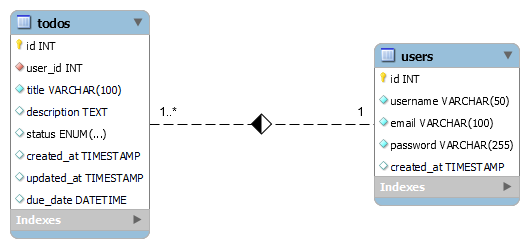
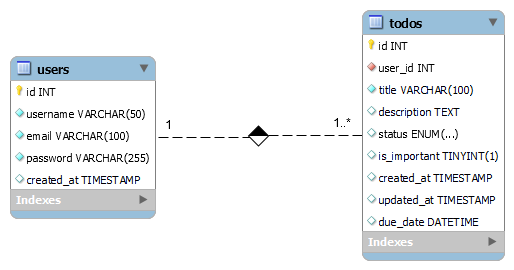
READDME:
DB Dokumentation

diff --git a/README.md b/README.md
@@ -128,6 +128,7 @@ CREATE TABLE IF NOT EXISTS todos (
     title VARCHAR(100) NOT NULL,
     description TEXT,
     status ENUM('offen', 'in Bearbeitung', 'abgeschlossen') DEFAULT 'offen',
+    is_important BOOLEAN DEFAULT 0, -- Neue Spalte für "wichtige" Aufgaben
     created_at TIMESTAMP DEFAULT CURRENT_TIMESTAMP,
     updated_at TIMESTAMP DEFAULT CURRENT_TIMESTAMP ON UPDATE CURRENT_TIMESTAMP,
     due_date DATETIME,
@@ -149,18 +150,21 @@ INSERT INTO users (username, email, password, created_at) VALUES
 
 ```sql
 -- Dummy-Daten für die Tabelle todos einfügen
-INSERT INTO todos (user_id, title, description, status, due_date, created_at, updated_at) VALUES
-(1, 'Einkaufen gehen', 'Milch, Brot, Eier und Obst kaufen.', 'offen', '2024-11-10 18:00:00', NOW(), NOW()),
-(1, 'Hausaufgaben machen', 'Mathe und Englisch Hausaufgaben fertigstellen.', 'in Bearbeitung', '2024-11-05 17:00:00', NOW(), NOW()),
-(2, 'Fitnessstudio', 'Im Fitnessstudio trainieren.', 'offen', '2024-11-07 19:00:00', NOW(), NOW()),
-(2, 'Projekte abschließen', 'Abschlussbericht für das Projekt fertigstellen.', 'abgeschlossen', '2024-11-03 15:00:00', NOW(), NOW()),
-(3, 'Arzttermin', 'Zur Arztpraxis gehen für die jährliche Untersuchung.', 'offen', '2024-11-12 09:00:00', NOW(), NOW()),
-(3, 'Küche putzen', 'Die Küche gründlich reinigen.', 'offen', '2024-11-09 12:00:00', NOW(), NOW());
+INSERT INTO todos (user_id, title, description, status, due_date, is_important, created_at, updated_at) VALUES
+(1, 'Einkaufen gehen', 'Milch, Brot, Eier und Obst kaufen.', 'offen', '2024-11-10 18:00:00', 0, NOW(), NOW()),
+(1, 'Hausaufgaben machen', 'Mathe und Englisch Hausaufgaben fertigstellen.', 'in Bearbeitung', '2024-11-05 17:00:00', 1, NOW(), NOW()), -- markiert als wichtig
+(2, 'Fitnessstudio', 'Im Fitnessstudio trainieren.', 'offen', '2024-11-07 19:00:00', 1, NOW(), NOW()), -- markiert als wichtig
+(2, 'Projekte abschließen', 'Abschlussbericht für das Projekt fertigstellen.', 'abgeschlossen', '2024-11-03 15:00:00', 0, NOW(), NOW()),
+(3, 'Arzttermin', 'Zur Arztpraxis gehen für die jährliche Untersuchung.', 'offen', '2024-11-12 09:00:00', 1, NOW(), NOW()), -- markiert als wichtig
+(3, 'Küche putzen', 'Die Küche gründlich reinigen.', 'offen', '2024-11-09 12:00:00', 0, NOW(), NOW());
 ```
 
 ### 6. Daten aus den Tabellen abfragen
 
 ```sql
+-- Abfrage alle wichtigen Aufgaben
+SELECT * FROM todos WHERE is_important = 1;
+
 -- Abfrage aller Benutzer
 SELECT * FROM users;
 
